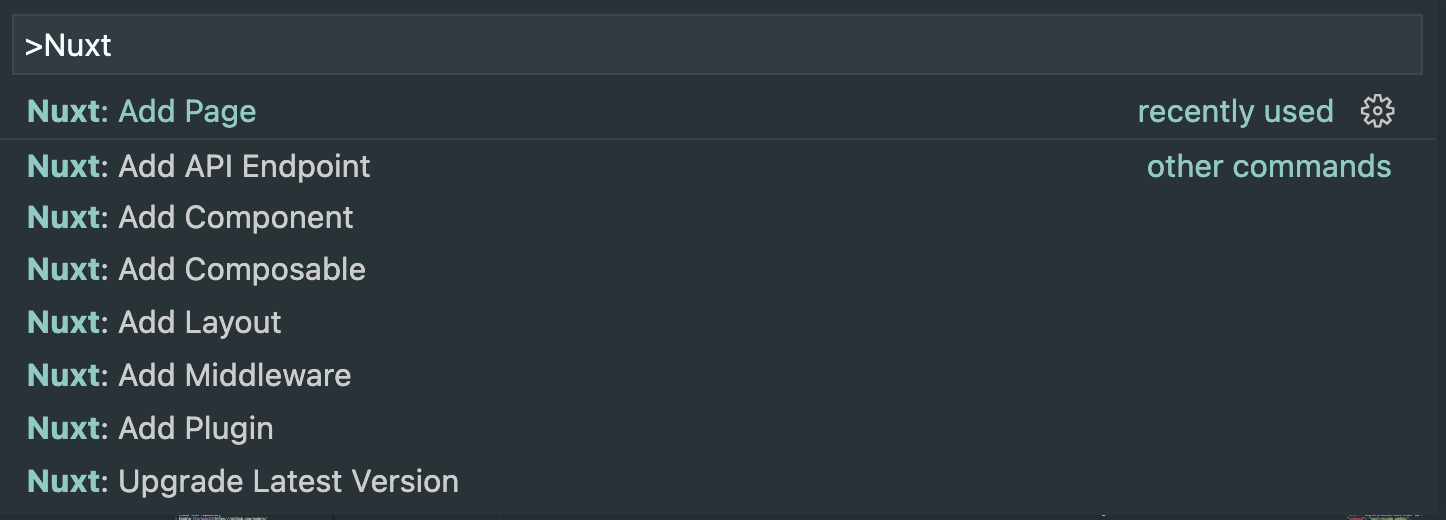
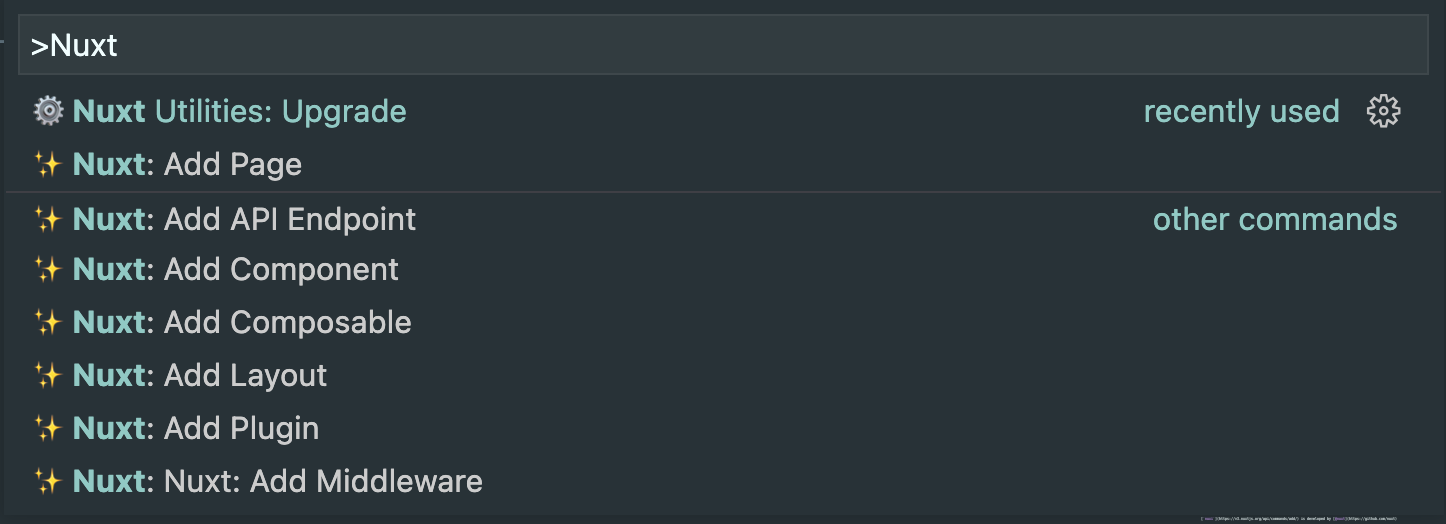
chore: README

diff --git a/README.md b/README.md
@@ -47,13 +47,6 @@
 ## Prerequisites
 
 - [VS Code](https://code.visualstudio.com/) `v1.71.0 or greater`
-- [Nuxi CLI](https://v3.nuxtjs.org/api/commands/add/) `latest`
-
-Install Nuxi CLI Globally
-
-```bash
-npm i -g nuxi
-```
 
 ## Features
 
@@ -72,7 +65,8 @@ A command pallet of commands to run in addition to adding to the `explorer` cont
 - [x] `Nuxt: Add Middleware` - Add custom middleware to the project.
 - [x] `Nuxt: Add API Endpoint` - Adds a API endpoint to your project
 - [x] `Nuxt: Add Page` - Adds a page to your project
-- [x] `Nuxt: Upgrade Latest Version` - Upgrade to the latest version of Nuxt
+- [ ] `Nuxt: Typecheck` - WIP ⚠
+- [x] `Nuxt: Upgrade` - Upgrade to the latest version of Nuxt
 
 ## 💻 Development
 
